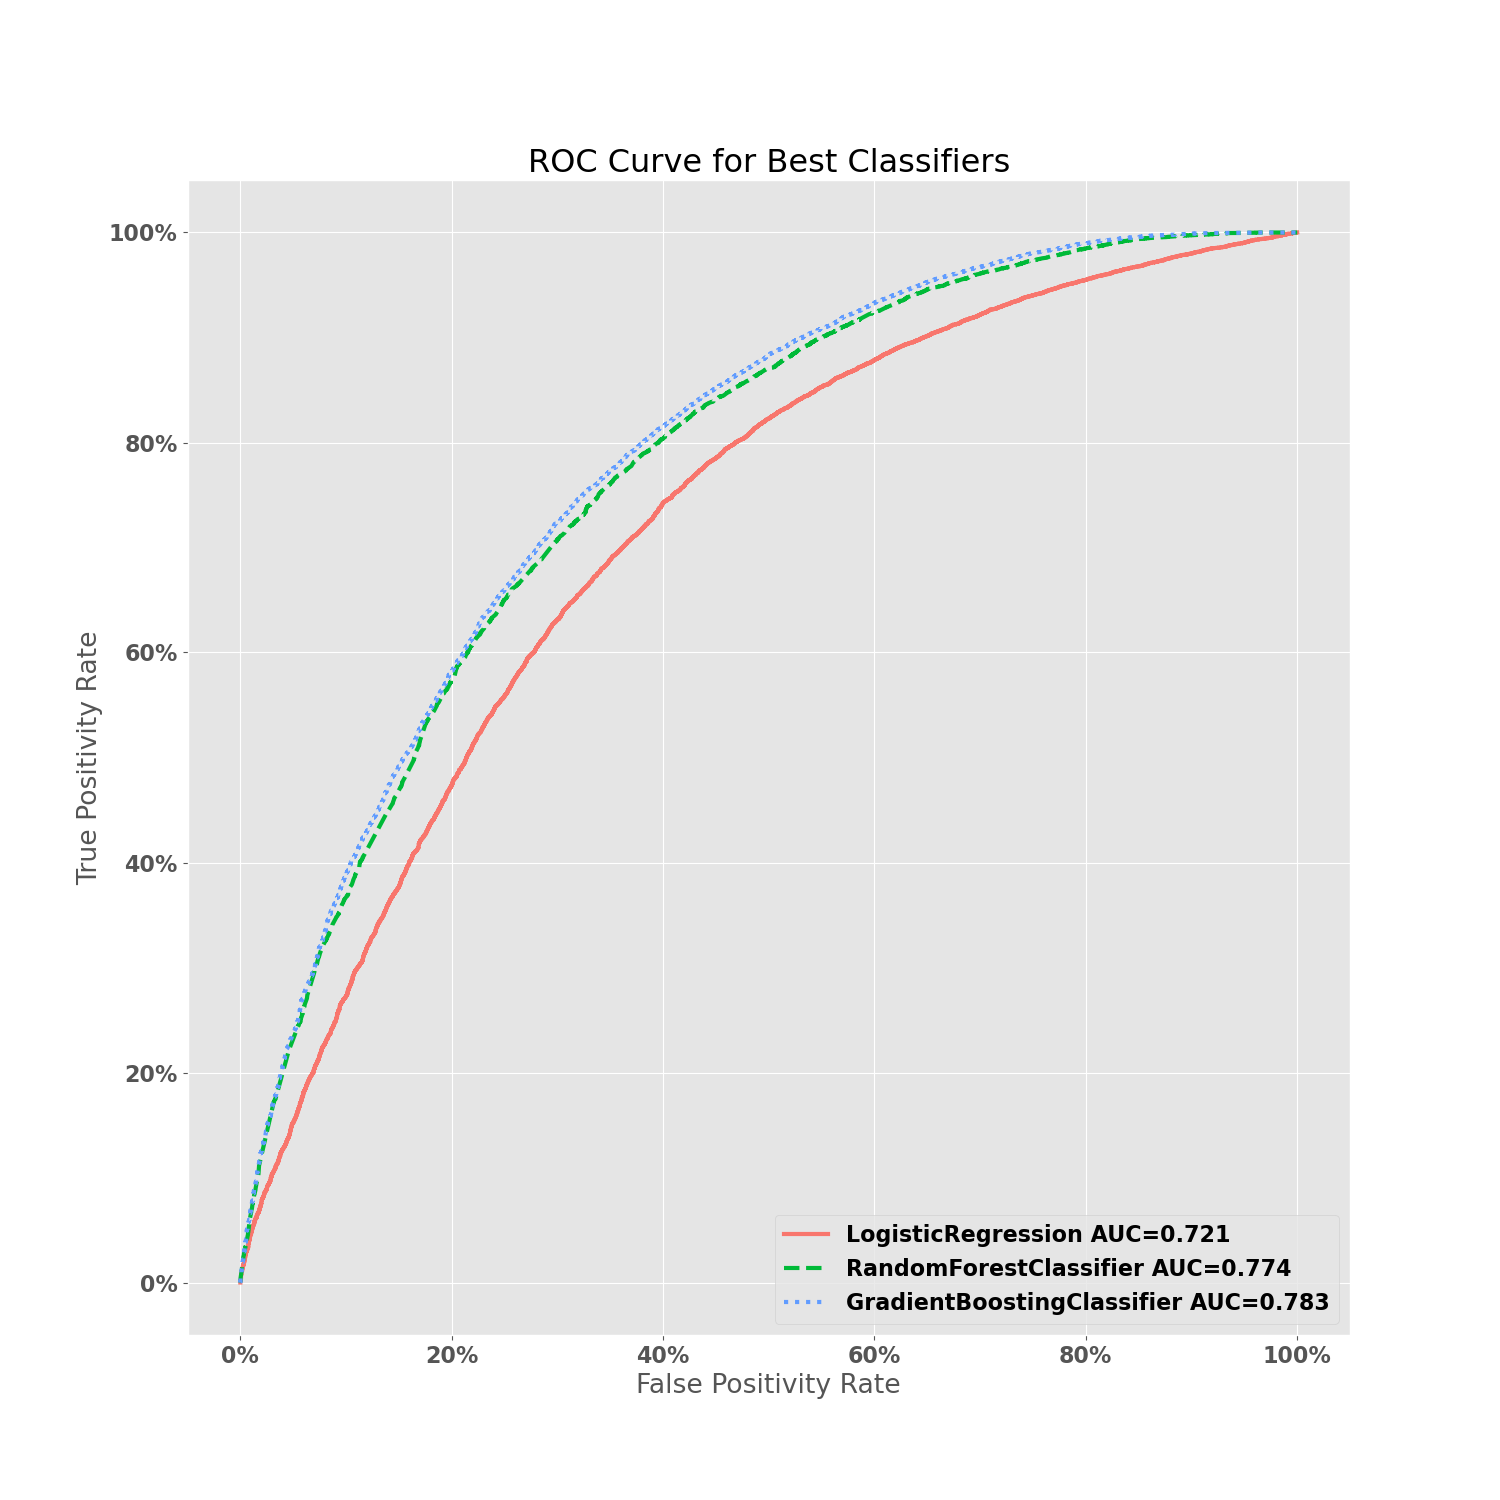
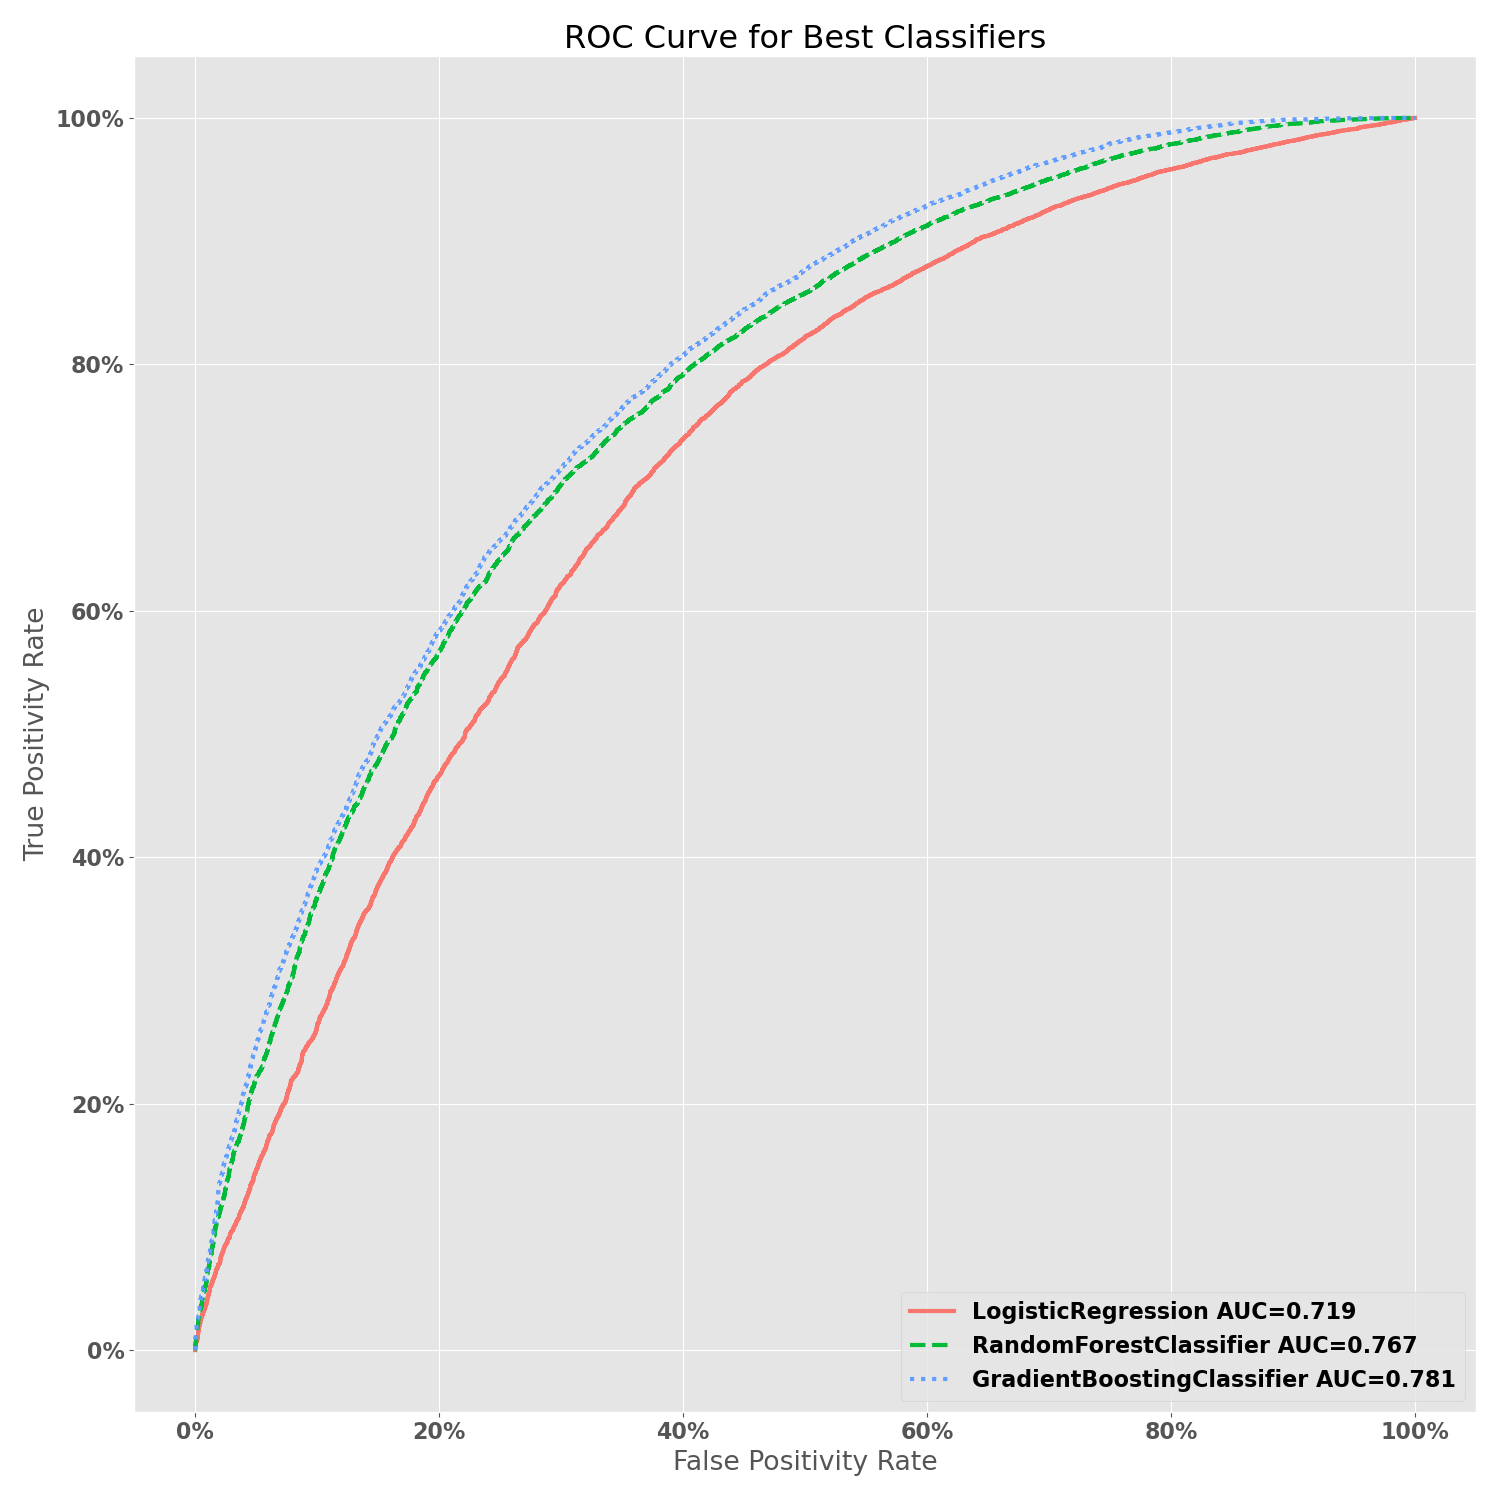
Updating repo for EOD."

Changed region(s): [[0.0, 0.0, 1.0, 0.9813]]

diff --git a/src/train_test.py b/src/train_test.py
@@ -29,6 +29,7 @@ class Churn_Model(object):
             Instantiates a Churn_Model class 
         """
         self.classifier = classifier 
+        self.classifier_name = self.classifier.__class__.__name__
         self.X_train, self.X_test, self.y_train, self.y_test = split_data
         
     def convert_cat_to_int(self):
@@ -73,14 +74,31 @@ class Churn_Model(object):
 
         self.model_search.fit(self.X_train, self.y_train)
 
-        classifier_name = self.classifier.__class__.__name__
-
-        print(f"Best Parameters for {classifier_name}: {self.model_search.best_params_}")
-        print(f"Best {scoring_type} Score for {classifier_name}: {self.model_search.best_score_:.4f}")
+        print(f"Best Parameters for {self.classifier_name}: {self.model_search.best_params_}")
+        print(f"Best {scoring_type} Training Score for {self.classifier_name}: {self.model_search.best_score_:.4f}")
 
         self.best_model = self.model_search.best_estimator_
         self.y_train_probs = self.best_model.predict_proba(self.X_train)[:,1] 
         self.y_test_probs = self.best_model.predict_proba(self.X_test)[:,1] 
+
+    def print_feature_importances(self):
+        """ Plots the ROC Curve for a classifier given the test data and axis
+        Args:
+            self (Churn_Model class)
+
+        Returns: 
+            None
+            Prints a sorted table of features by their importance.
+        """
+        feature_dict = {}
+        for feature, importance in zip(self.X_test.columns, self.best_model.feature_importances_):
+            feature_dict[feature] = importance
+        
+        print(f"Feature Importances for {self.classifier_name}")
+        print("| Feature                        | Importance % |  ")
+        print("|--------------------------------|--------------| ")
+        for feature in sorted(feature_dict, key=feature_dict.__getitem__, reverse=True):
+            print(f"| {feature.replace('_', ' ').title()} | {feature_dict[feature]:.1%} |")
 
     def plot_model_roc(self, ax, plot_kwargs={}):
         """ Plots the ROC Curve for a classifier given the test data and axis
@@ -96,7 +114,7 @@ class Churn_Model(object):
         auc_score = roc_auc_score(self.y_test, self.y_test_probs)
         fpr, tpr, threshold = roc_curve(self.y_test, self.y_test_probs)
         roc_df = pd.DataFrame(zip(fpr, tpr, threshold), columns = ['fpr', 'tpr', 'threshold'])
-        ax.plot(roc_df.fpr, roc_df.tpr, label=f"{self.best_model.__class__.__name__} AUC={auc_score:.3f}", **plot_kwargs)
+        ax.plot(roc_df.fpr, roc_df.tpr, label=f"{self.classifier_name} AUC={auc_score:.3f}", **plot_kwargs)
     
     def calc_profit_curve(self, tp_cost, fp_cost):
         """ Calculates the profit for a range of thresholds given the true and false positive costs.
@@ -137,9 +155,8 @@ class Churn_Model(object):
 
         max_profit = max(y_axis) / len(self.X_test)
         max_profit_line = x_axis[y_axis.index(max(y_axis))]
-        classifier_name = self.best_model.__class__.__name__
-
-        ax.plot(x_axis, y_axis, label=f"{classifier_name} Profit per User: ${max_profit:.2f}", **plot_kwargs)
+    
+        ax.plot(x_axis, y_axis, label=f"{self.classifier_name} Profit per User: ${max_profit:.2f}", **plot_kwargs)
         ax.axvline(x=max_profit_line, label=f"Max Profit Threshold: {max_profit_line:.0%}", **plot_kwargs)
 
     def plot_f1_curve(self, ax, plot_kwargs={}):
@@ -164,9 +181,8 @@ class Churn_Model(object):
 
         max_f1_score = max(f1_list)
         max_threshold = threshold_list[f1_list.index(max(f1_list))]
-        classifier_name = self.best_model.__class__.__name__
-
-        ax.plot(threshold_list, f1_list, label=f"{classifier_name} F1 Score: {max_f1_score:.1%}", **plot_kwargs)
+        
+        ax.plot(threshold_list, f1_list, label=f"{self.classifier_name} F1 Score: {max_f1_score:.1%}", **plot_kwargs)
         ax.axvline(x=max_threshold
                   ,label=f'Ideal Threshold: {max_threshold:.0%}', **plot_kwargs)
 
@@ -226,7 +242,7 @@ if __name__ == '__main__':
                             }
     lr_model.convert_cat_to_int()
     lr_model.fit_model(logistic_regression_grid, GridSearchCV, 'roc_auc')
-     
+    
     rf_model = Churn_Model(RandomForestClassifier(), split_data)
     random_forest_grid = {'max_depth': [2, 4, 8]
                         ,'max_features': ['sqrt', 'log2', None]
@@ -235,7 +251,8 @@ if __name__ == '__main__':
                         ,'bootstrap': [True, False]
                         ,'n_estimators': [5,10,25,50,100,200]}
     rf_model.fit_model(random_forest_grid, RandomizedSearchCV, 'roc_auc')
-    
+    rf_model.print_feature_importances()
+
     split_data[0]['lr_predictions'] = lr_model.y_train_probs
     split_data[1]['lr_predictions'] = lr_model.y_test_probs
     
@@ -245,12 +262,13 @@ if __name__ == '__main__':
                             ,'max_features': ['sqrt', 'log2', None]
                             ,'min_samples_leaf': [1, 2, 4]
                             ,'subsample': [0.25, 0.5, 0.75, 1.0]
-                            ,'n_estimators': [5,10,25,50,100,200,250]}
+                            ,'n_estimators': [5,10,25,50,100,200]}
     gb_model.fit_model(gradient_boosting_grid, RandomizedSearchCV, 'roc_auc')
+    gb_model.print_feature_importances()
 
     lr_plot_kwargs = {'linestyle':'-', 'linewidth': 3, 'color': '#F8766D'}
     rf_plot_kwargs = {'linestyle':'--', 'linewidth': 3, 'color': '#00BA38'}
-    gb_plot_kwargs = {'linestyle':':', 'linewidth': 3, 'color': '#619CFF'}
+    gb_plot_kwargs = {'linestyle':'--', 'linewidth': 3, 'color': '#00BA38'}
     
     classifiers = [lr_model, rf_model, gb_model]
     classifier_plot_kwargs = [lr_plot_kwargs, rf_plot_kwargs, gb_plot_kwargs]
@@ -287,9 +305,8 @@ if __name__ == '__main__':
     axs[1].legend(loc='lower left')
     axs[1].set_title("Profit Curves for Best Classifiers")                                                                    
     axs[1].set_xlabel(f"Threshold Percent")
-    axs[1].set_ylabel(f"Profit ($) on {round(len(y_test)/1000,0)}k Users")
+    axs[1].set_ylabel(f"Profit ($) on {round(len(split_data[2])/1000,0)}k Users")
     axs[1].xaxis.set_major_formatter(PercentFormatter(xmax=1.0))
     
-    plt.suptitle("Comparing Best Classifiers", y=0.99, fontsize=30)
     plt.tight_layout()
     plt.savefig(f"images/original_profit_and_f1_curves.png")

diff --git a/src/best_model.py b/src/best_model.py
@@ -17,7 +17,7 @@ from collections import OrderedDict
 if __name__ == '__main__':
 
     bucket_name = 'food-delivery-churn'
-    filename = 'boolean_churn'
+    filename = 'weekend_churn'
     is_feature_selection = False
     feature_list = []
 
@@ -37,26 +37,24 @@ if __name__ == '__main__':
     X_train['lr_predictions'] = best_lr.predict_proba(X_train)[:,1]
     X_test['lr_predictions'] = best_lr.predict_proba(X_test)[:,1]
 
-    best_model = GradientBoostingClassifier(subsample=0.25
+    best_model = GradientBoostingClassifier(subsample=0.75
                                            ,n_estimators=200
-                                           ,min_samples_leaf=2
+                                           ,min_samples_leaf=1
                                            ,max_features=None
-                                           ,max_depth=8
-                                           ,learning_rate=0.05)
+                                           ,max_depth=2
+                                           ,learning_rate=0.25)
 
     best_model.fit(X_train, y_train)
-
-    print(best_model.score(X_test, y_test))
-
+    print(roc_auc_score(y_test, best_model.predict_proba(X_test)[:,1]))
     
-    # feature_dict = {}
-    # for feature, importance in zip(X_test.columns, best_model.feature_importances_):
-    #     feature_dict[feature] = importance
+    feature_dict = {}
+    for feature, importance in zip(X_test.columns, best_model.feature_importances_):
+        feature_dict[feature] = importance
 
-    # print("| Feature                        | Importance % |  ")
-    # print("|--------------------------------|--------------| ")
-    # for feature in sorted(feature_dict, key=feature_dict.__getitem__, reverse=True):
-    #     print(f"| {feature.replace('_', ' ').title()} | {feature_dict[feature]:.1%} |")
+    print("| Feature                        | Importance % |  ")
+    print("|--------------------------------|--------------| ")
+    for feature in sorted(feature_dict, key=feature_dict.__getitem__, reverse=True):
+        print(f"| {feature.replace('_', ' ').title()} | {feature_dict[feature]:.1%} |")
 
     # my_plot = plot_partial_dependence(best_model
     #                                 ,features=[i for i in range(0,len(X_train.columns.tolist()))]

diff --git a/README.md b/README.md
@@ -19,36 +19,33 @@ The features I pulled included:
 | Feature Name                   | Data Type | Description |
 |--------------------------------|-----------|-------------|
 | city_name                      | String    | The city the user placed their first order in. Changed to protect the company's identity and data. |
-| city_group                     | String    | One of `college town` or `city` based on the city's population size and presence of a university. |
 | signup_time_utc                | DateTime  | The date and time the user signed up on the platform in Coordinated Universal Time. |
-| is_foreign_user                | Boolean   | Whether or not the user is domestic to the US. |
-| acquisition_category           | String    | The acquisition channel a user signed up through (Referrals, Digital Ads, Social Media, etc). |
-| acquisition_subcategory        | String    | The acquisition channel's subcategory a user signed up through (Facebook, Snapchat, In-restaurant promotions, etc). |
-| language                       | String    | The user selected language they prefer. Can be Unknown is not-selected. |
+| acquisition_channel            | String    | The acquisition channel a user signed up through (Facebook, Snapchat, In-restaurant promotions, emails, etc). |
 | last_order_time_utc            | DateTime  | The date and time of the user's last order on the platform in Coordinated Universal Time. **This is used to calculate the positive and negative class.**|
-| signup_to_order_hours          | Float     | The number of hours between signing up and a user's first order. |
 | days_since_signup              | Integer   | The number of days since a user has signed up. |
-| first_order_driver_rating      | Integer   | The optional rating a user gave their courier on their first order. Can be -1 if there was no rating. |
+| signup_to_order_hours          | Float     | The number of hours between signing up and a user's first order. |
+| first_order_driver_rating      | Integer   | The optional rating a user gave their driver on their first order. Can be -1 if there was no rating. |
 | first_order_avg_meal_rating    | Float     | The optional average rating a user gave their meals on their first order. Can be -1 if there were no ratings. An order can have multiple meals included. |
-| first_order_median_meal_rating | Float     |The optional median rating a user gave their meals on their first order. Can be -1 if there were no ratings. An order can have multiple meals included.|
+| first_order_meal_reviews       | Integer   | The number of meal reviews that a user rated during their first order. An order can have multiple meals included. |
 | first_order_delivered_on_time  | Boolean   | Whether or not a user's first order was delivered by the time promised in the app. |
 | first_order_hours_late         | Float     | The number of hours late a user's first order was delivered. If an order was delivered on time, this equals 0. |
 | first_order_gmv                | Float     | The Gross Merchandise Value (in USD) of a user's first order. This is the total cost of an order, including things like taxes, fees, and tips. |
-| first_order_payment            | Float     | The amount a user paid the Company on their first order (in USD). This is net of the promos or discounts a user was offered. |
-| first_order_discount_amount    | Float     | The difference between the GMV and an order payment (in USD). This is equal to any promos or discounts a user was offered. |
 | first_order_discount_percent   | Float     | The % of the GMV that was discounted on a user's first order |
-| first_order_meal_reviews       | Integer   | The number of meal reviews that a user rated during their first order. An order can have multiple meals included. |
+| first_order_driver_tips        | Float     | The amount a user tipped a driver on their first order |
 | first_30_day_orders            | Integer   | The number of orders a user placed during their first 30 days after their first order. |
-| first_30_day_avg_meal_rating   | Float     | The average meal rating for all the orders a user placed during their first 30 days after their first order. |
 | first_30_day_avg_driver_rating | Float     | The average driver rating for all the orders a user placed during their first 30 days after their first order. |
+| first_30_day_avg_meal_rating   | Float     | The average meal rating for all the orders a user placed during their first 30 days after their first order. |
 | first_30_day_avg_gmv           | Float     | The average GMV (in USD) for all the orders a user placed during their first 30 days after their first order. |
 | first_30_day_discount_percent  | Float     | The average discount percent for all the orders a user placed during their first 30 days after their first order. |
+| first_30_day_avg_driver_tips   | Float     | The average amount a user tipped a driver for all the orders a user placed during their first 30 days after their first order. |
 | first_30_day_subscription_user | Boolean   | Whether or not a user was a subscription user during their first 30 days. |
+| first_30_day_support_messages  | Int       | The number of customer support messages a user sent Company X during their first 30 days. Can be -1 if there were no support messages. |
 
 Before starting my EDA, I needed to separate out a holdout dataset that I would use to test the performance of my best classifiers. I shuffled the data, stratified based on my target class, and then split out 20% to hold back for testing purposes.
 
 ### Data Cleaning
 Most of my data cleaning occurred when I was writing the query itself, which included:
+
 * Grouping cities into `College Town` town or `City`
 * Converting local currencies to USD
 * Filtering for only completed orders
@@ -96,8 +93,8 @@ My first step in determining the best classifier to use was to iterate through v
     <tbody>
         <tr>
             <td rowspan=5>Logisitic Regression</td>
-            <td>`penalty`</td>
-            <td>['l1', 'l2']</td>
+            <td>penalty</td>
+            <td>[l1, l2]</td>
         </tr>
         <tr>
             <td>fit_intercept</td>
@@ -105,11 +102,11 @@ My first step in determining the best classifier to use was to iterate through v
         </tr>
         <tr>
             <td>class_weight</td>
-            <td>[None, 'Balanced']</td>
+            <td>[None, Balanced]</td>
         </tr>
         <tr>
             <td>solver</td>
-            <td>['liblinear']</td>
+            <td>[liblinear]</td>
         </tr>
         <tr>
             <td>max_iter</td>
@@ -122,7 +119,7 @@ My first step in determining the best classifier to use was to iterate through v
         </tr>
         <tr>
             <td>max_features</td>
-            <td>['sqrt', 'log2', None]</td>
+            <td>[sqrt, log2, None]</td>
         </tr>
         <tr>
             <td>min_samples_leaf</td>
@@ -151,7 +148,7 @@ My first step in determining the best classifier to use was to iterate through v
         </tr>
         <tr>
             <td>max_features</td>
-            <td>['sqrt', 'log2', None]</td>
+            <td>[sqrt, log2, None]</td>
         </tr>
         <tr>
             <td>min_samples_leaf</td>
@@ -168,13 +165,13 @@ My first step in determining the best classifier to use was to iterate through v
     </tbody>
 </table>
 
-After each iteration of finding the optimal hyperparameters, I took the results from the best model of predicting the probability of the positive class and added it to my features for training the next classifier. This had significant improvements on the Random Forest and Gradient Boosting classifiers.
+After finding the optimal hyperparameters for my Logistic Regression classifier, I took the results from the best model of predicting the probability of the positive class and added it to my features for training the Random Forest and Gradient Boosting classifiers.
 
-I decided to use the ROC AUC score to compare my models and plotting each one against the other. My best model achieved an AUC score of 0.XX on unseen data.
+I decided to use the ROC AUC score to compare my models and plotted each one against the other. My best model used the Gradient Boosting classifier and achieved an AUC score of 0.78 on unseen data.
 
 ![ROC Curve](images/original_roc_curves.png)
 
-Next, I wanted to look at which features contributed most to my model by comparing their feature importances. On the left side of the table are my feature importances using the original dataset. After looking at these and comparing them to the KDE plots, I realized it might not matter what rating you give a meal or driver so much as IF you gave either a rating. I re-engineered my features to change ratings from int/float to booleans and re-ran the feature importances, also removing less important features like City Group, Subscription User, First Order Delivered On-Time, and Foreign User.
+Next, I wanted to look at which features contributed most to my best model by comparing their feature importances. On the left side of the table are my feature importances using the original dataset. After looking at these and comparing them to the KDE plots, I realized it might not matter what rating you give a meal or driver so much as IF you gave either a rating. I re-engineered my features to change ratings from int/float to booleans and re-ran the feature importances, also removing less important features like City Group, Subscription User, First Order Delivered On-Time, and Foreign User.
 
 <table>
 <tr><th> Original Dataset </th> <th> Boolean Dataset </th></tr>
@@ -233,8 +230,11 @@ Next, I wanted to look at which features contributed most to my model by compari
 </td></tr>
 </table>
 
+Overall, using this Boolean feature set instead of my original one, I was able to drop 6 features and convert 6 others to boolean values while still maintaining a 0.78 AUC ROC score.
 
 ## Model and Threshold Selection
+
+Now that I had my best model for predicting the probability that a user will churn, I wanted to see what threshold for probability is optimal to determine our positive and negative class. In order to do this, I used an F1 score which balances the importance of a False Positive and a False Negative as well as a Profit Curve which takes into account the cost of predicting True Positives and False Positives.
 
 ![F1 Score and Profit Curve](images/original_profit_and_f1_curves.png)
 
